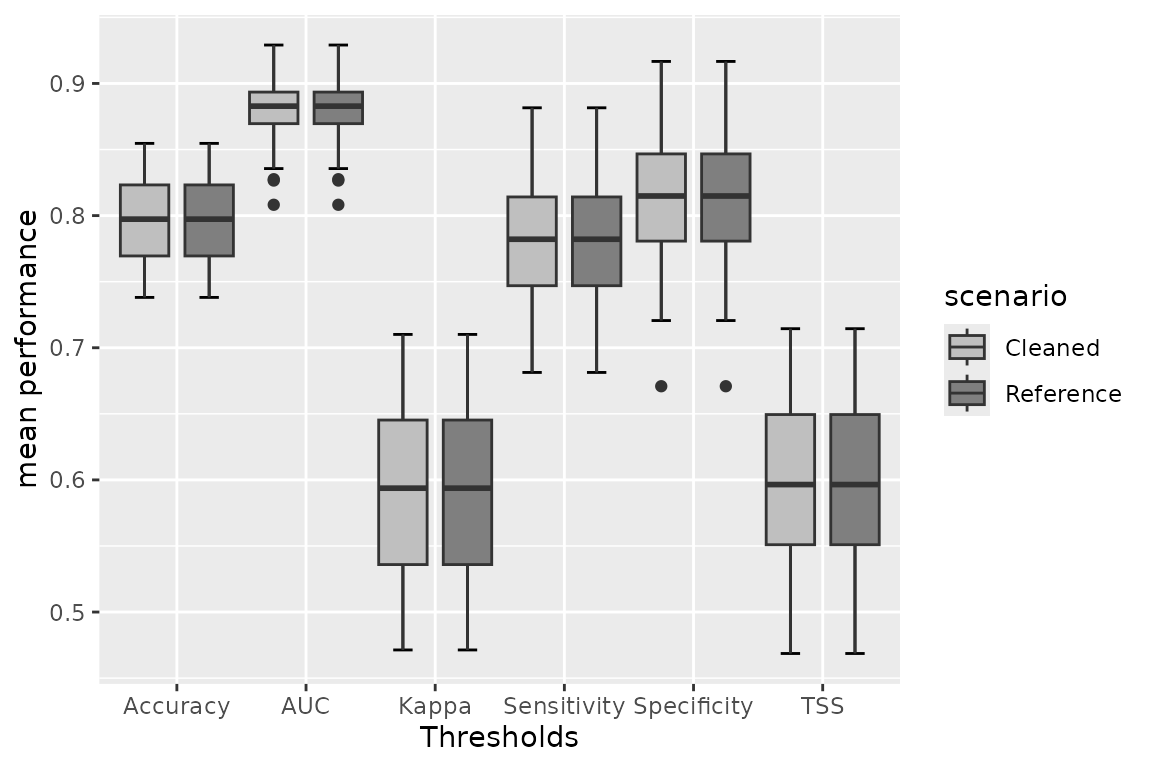
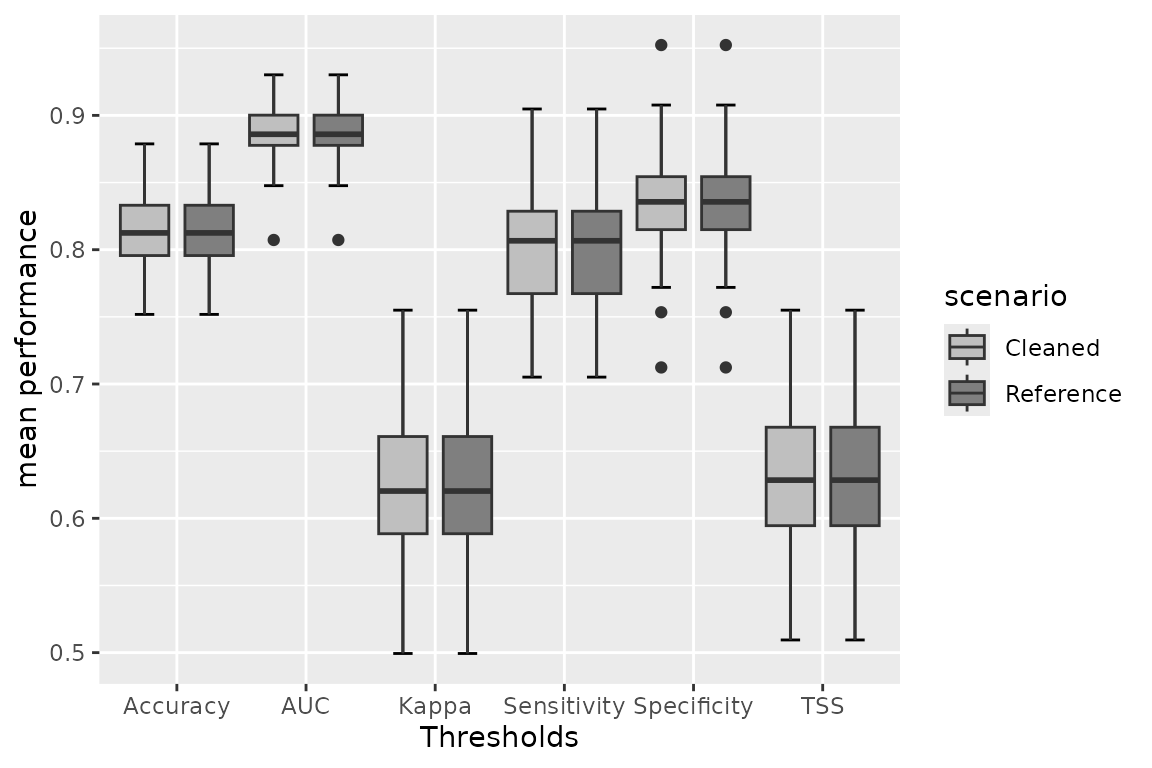
Deploying to gh-pages from @ AnthonyBasooma/specleanr@8b0386eadaf486458f5183ca55744814c9973fbe 🚀

diff --git a/articles/eOutlier.html b/articles/eOutlier.html
@@ -113,12 +113,14 @@ records from each data source to reduce on the execution time.</p>
 <span><span class="va">danube</span> <span class="op">&lt;-</span> <span class="fu">sf</span><span class="fu">::</span><span class="fu"><a href="https://r-spatial.github.io/sf/reference/st_read.html" class="external-link">st_read</a></span><span class="op">(</span><span class="fu"><a href="https://rdrr.io/r/base/system.file.html" class="external-link">system.file</a></span><span class="op">(</span><span class="st">'extdata/danube/basinfinal.shp'</span>, package <span class="op">=</span> <span class="st">'specleanr'</span><span class="op">)</span>, quiet<span class="op">=</span><span class="cn">TRUE</span><span class="op">)</span></span>
 <span></span>
 <span></span>
-<span><span class="va">df_online</span> <span class="op">&lt;-</span> <span class="fu"><a href="../reference/getdata.html">getdata</a></span><span class="op">(</span>data <span class="op">=</span> <span class="fu"><a href="https://rdrr.io/r/base/c.html" class="external-link">c</a></span><span class="op">(</span><span class="st">"Squalius cephalus"</span>, <span class="st">'Salmo trutta'</span>, <span class="st">"Thymallus thymallus"</span>,<span class="st">"Anguilla anguilla"</span><span class="op">)</span>, </span>
+<span><span class="va">df_online</span> <span class="op">&lt;-</span> <span class="fu"><a href="../reference/getdata.html">getdata</a></span><span class="op">(</span>data <span class="op">=</span> <span class="fu"><a href="https://rdrr.io/r/base/c.html" class="external-link">c</a></span><span class="op">(</span><span class="st">"Squalius cephalus"</span>, <span class="st">'Salmo trutta'</span>, </span>
+<span>                              <span class="st">"Thymallus thymallus"</span>,<span class="st">"Anguilla anguilla"</span><span class="op">)</span>, </span>
 <span>                                bbox <span class="op">=</span> <span class="va">danube</span>,</span>
 <span>                                gbiflim <span class="op">=</span> <span class="fl">50</span>, </span>
 <span>                                inatlim <span class="op">=</span> <span class="fl">50</span>, </span>
 <span>                                vertlim <span class="op">=</span> <span class="fl">50</span>, </span>
 <span>                     verbose <span class="op">=</span> <span class="cn">F</span><span class="op">)</span></span>
+<span><span class="co">#&gt; Using libcurl 7.81.0 with OpenSSL/3.0.2</span></span>
 <span></span>
 <span><span class="co">#extract online data from dataonline class</span></span>
 <span></span>
@@ -300,6 +302,10 @@ methods consider the whole dataset.</li>
 <span>                     exclude <span class="op">=</span> <span class="fu"><a href="https://rdrr.io/r/base/c.html" class="external-link">c</a></span><span class="op">(</span><span class="st">'x'</span>,<span class="st">'y'</span><span class="op">)</span>,</span>
 <span>                      methods <span class="op">=</span> <span class="fu"><a href="https://rdrr.io/r/base/c.html" class="external-link">c</a></span><span class="op">(</span><span class="st">'zscore'</span>, <span class="st">'adjbox'</span>,<span class="st">'iqr'</span>, <span class="st">'semiqr'</span>,<span class="st">'hampel'</span>,<span class="st">'kmeans'</span>, <span class="st">'mahal'</span>,</span>
 <span>                                  <span class="st">'logboxplot'</span>,<span class="st">'jknife'</span>,<span class="st">'lof'</span><span class="op">)</span><span class="op">)</span></span>
+<span><span class="co">#&gt; [1] "bio6"</span></span>
+<span><span class="co">#&gt; [1] "bio6"</span></span>
+<span><span class="co">#&gt; [1] "bio6"</span></span>
+<span><span class="co">#&gt; [1] "bio6"</span></span>
 <span><span class="co">#single species</span></span>
 <span><span class="va">ttoutlier</span><span class="op">&lt;-</span> <span class="fu"><a href="../reference/multidetect.html">multidetect</a></span><span class="op">(</span>data <span class="op">=</span> <span class="va">ttrefdata</span>,</span>
 <span>                      multiple <span class="op">=</span> <span class="cn">FALSE</span>,</span>
@@ -361,25 +367,25 @@ identifying the optimal threshold.</p>
 <span><span class="fu"><a href="https://rdrr.io/r/utils/head.html" class="external-link">head</a></span><span class="op">(</span><span class="va">multspecies_clean</span><span class="op">)</span></span>
 <span><span class="co">#&gt;       bio1     bio2     bio3     bio4     bio5     bio6     bio7      bio8</span></span>
 <span><span class="co">#&gt; 1 6.293614 8.755938 31.96181 690.1050 20.90625 -6.48875 27.39500  7.375333</span></span>
-<span><span class="co">#&gt; 2 8.130990 9.155687 33.54192 693.5986 22.50525 -4.79100 27.29625 16.581375</span></span>
-<span><span class="co">#&gt; 3 8.082250 8.630333 32.53905 683.7614 22.23800 -4.28500 26.52300 16.440792</span></span>
-<span><span class="co">#&gt; 4 8.747239 9.561563 33.16130 735.3621 24.23025 -4.60325 28.83350 17.790833</span></span>
-<span><span class="co">#&gt; 5 8.497177 8.913187 33.22129 689.5564 22.77225 -4.05750 26.82975 16.926792</span></span>
-<span><span class="co">#&gt; 6 8.082250 8.630333 32.53905 683.7614 22.23800 -4.28500 26.52300 16.440792</span></span>
-<span><span class="co">#&gt;          bio9    bio10       bio11 bio12 bio13 bio14    bio15 bio16 bio17 bio18</span></span>
-<span><span class="co">#&gt; 1 -1.17562509 14.80313 -2.06429172  2118   241   105 21.73814   663   379   530</span></span>
-<span><span class="co">#&gt; 2  0.93133330 16.58138 -0.41912505  1307   174    69 33.66177   499   233   499</span></span>
-<span><span class="co">#&gt; 3 -0.30200002 16.44079 -0.30200002  1229   163    67 33.78827   468   213   468</span></span>
-<span><span class="co">#&gt; 4 -0.28391668 17.79083 -0.28391668   643    87    28 38.32993   248    96   248</span></span>
-<span><span class="co">#&gt; 5  0.01145836 16.92679  0.01145836  1173   150    64 31.66039   435   206   435</span></span>
-<span><span class="co">#&gt; 6 -0.30200002 16.44079 -0.30200002  1229   163    67 33.78827   468   213   468</span></span>
-<span><span class="co">#&gt;   bio19        x        y      species</span></span>
-<span><span class="co">#&gt; 1   412 13.91667 46.25000 Salmo trutta</span></span>
-<span><span class="co">#&gt; 2   234 13.08333 47.75000 Salmo trutta</span></span>
-<span><span class="co">#&gt; 3   213 12.08333 47.75000 Salmo trutta</span></span>
-<span><span class="co">#&gt; 4    96 15.58333 48.25000 Salmo trutta</span></span>
-<span><span class="co">#&gt; 5   206 11.91667 47.91667 Salmo trutta</span></span>
-<span><span class="co">#&gt; 6   213 12.08333 47.75000 Salmo trutta</span></span>
+<span><span class="co">#&gt; 2 1.382021 6.901417 29.89082 612.7983 13.88175 -9.20700 23.08875  8.924666</span></span>
+<span><span class="co">#&gt; 3 8.747239 9.561563 33.16130 735.3621 24.23025 -4.60325 28.83350 17.790833</span></span>
+<span><span class="co">#&gt; 4 6.505573 8.508604 33.53277 649.9034 19.95200 -5.42200 25.37400 14.466125</span></span>
+<span><span class="co">#&gt; 5 4.682781 8.208604 32.65482 645.1202 17.96525 -7.17225 25.13750 12.606042</span></span>
+<span><span class="co">#&gt; 6 8.497177 8.913187 33.22129 689.5564 22.77225 -4.05750 26.82975 16.926792</span></span>
+<span><span class="co">#&gt;          bio9     bio10       bio11 bio12 bio13 bio14    bio15 bio16 bio17</span></span>
+<span><span class="co">#&gt; 1 -1.17562509 14.803125 -2.06429172  2118   241   105 21.73814   663   379</span></span>
+<span><span class="co">#&gt; 2 -5.74258327  8.924666 -5.74258327  1161   146    59 29.65669   416   193</span></span>
+<span><span class="co">#&gt; 3 -0.28391668 17.790833 -0.28391668   643    87    28 38.32993   248    96</span></span>
+<span><span class="co">#&gt; 4 -0.37845835 14.466125 -1.35133338  1380   188    75 32.60979   522   255</span></span>
+<span><span class="co">#&gt; 5 -2.24883342 12.606042 -3.06862497  1475   195    78 29.53172   535   272</span></span>
+<span><span class="co">#&gt; 6  0.01145836 16.926792  0.01145836  1173   150    64 31.66039   435   206</span></span>
+<span><span class="co">#&gt;   bio18 bio19        x        y      species</span></span>
+<span><span class="co">#&gt; 1   530   412 13.91667 46.25000 Salmo trutta</span></span>
+<span><span class="co">#&gt; 2   416   193 11.58333 47.08333 Salmo trutta</span></span>
+<span><span class="co">#&gt; 3   248    96 15.58333 48.25000 Salmo trutta</span></span>
+<span><span class="co">#&gt; 4   522   261 13.25000 47.75000 Salmo trutta</span></span>
+<span><span class="co">#&gt; 5   535   274 13.75000 47.58333 Salmo trutta</span></span>
+<span><span class="co">#&gt; 6   435   206 11.91667 47.91667 Salmo trutta</span></span>
 <span></span>
 <span><span class="va">ttclean</span><span class="op">&lt;-</span> <span class="fu"><a href="../reference/clean_data_extract.html">clean_data_extract</a></span><span class="op">(</span>refdata <span class="op">=</span> <span class="va">ttrefdata</span>, outliers <span class="op">=</span> <span class="va">ttoutlier</span>, loess <span class="op">=</span> <span class="cn">TRUE</span><span class="op">)</span></span>
 <span><span class="fu"><a href="https://rdrr.io/r/base/dim.html" class="external-link">dim</a></span><span class="op">(</span><span class="va">ttclean</span><span class="op">)</span></span>
@@ -414,12 +420,6 @@ therefore the user do not need to do these steps separately.</p></li>
 <span>                                     raster <span class="op">=</span> <span class="va">worldclim</span>, </span>
 <span>                                     lat <span class="op">=</span> <span class="st">'y'</span>, lon <span class="op">=</span> <span class="st">'x'</span>, full <span class="op">=</span> <span class="cn">FALSE</span>, </span>
 <span>                                     metrics <span class="op">=</span> <span class="st">'all'</span>, minpts <span class="op">=</span> <span class="fl">18</span>,loessthreshold <span class="op">=</span> <span class="cn">TRUE</span><span class="op">)</span></span>
-<span><span class="co">#&gt; Warning in modelcomparison(refdata = multipreclened, outliers = multioutliers,</span></span>
-<span><span class="co">#&gt; : The threshold option of REF didnot run as the 17 records for species Anguilla</span></span>
-<span><span class="co">#&gt; anguilla are too few for a species distribution models.</span></span>
-<span><span class="co">#&gt; Warning in modelcomparison(refdata = multipreclened, outliers = multioutliers,</span></span>
-<span><span class="co">#&gt; : The threshold option of 0.8 didnot run as the 17 records for species Anguilla</span></span>
-<span><span class="co">#&gt; anguilla are too few for a species distribution models.</span></span>
 <span></span>
 <span></span>
 <span><span class="va">multmodelper</span> <span class="op">&lt;-</span> <span class="fu"><a href="../reference/get_performance.html">get_performance</a></span><span class="op">(</span>modelcomp <span class="op">=</span> <span class="va">multcomparion</span><span class="op">)</span></span></code></pre></div>

diff --git a/articles/Plants.html b/articles/Plants.html
@@ -125,6 +125,7 @@ will return errors.</li>
 <span>                     hasCoordinate <span class="op">=</span> <span class="cn">TRUE</span>, </span>
 <span>                   bbox <span class="op">=</span> <span class="fu"><a href="https://rdrr.io/r/base/c.html" class="external-link">c</a></span><span class="op">(</span>xmin <span class="op">=</span> <span class="fl">8.15250</span>, ymin <span class="op">=</span> <span class="fl">42.08333</span>, xmax<span class="op">=</span><span class="fl">29.73583</span>, ymax <span class="op">=</span> <span class="fl">50.24500</span><span class="op">)</span>,</span>
 <span>                   verbose <span class="op">=</span> <span class="cn">FALSE</span>, warn <span class="op">=</span> <span class="cn">FALSE</span><span class="op">)</span></span>
+<span><span class="co">#&gt; Using libcurl 7.81.0 with OpenSSL/3.0.2</span></span>
 <span></span>
 <span></span>
 <span><span class="va">extrdata</span> <span class="op">&lt;-</span> <span class="fu"><a href="../reference/extract_online.html">extract_online</a></span><span class="op">(</span><span class="va">plantdf</span><span class="op">)</span></span></code></pre></div>
@@ -258,6 +259,8 @@ or machine learning models</strong>: local outlier factor:
 <span>                       methods <span class="op">=</span> <span class="fu"><a href="https://rdrr.io/r/base/c.html" class="external-link">c</a></span><span class="op">(</span><span class="st">'adjbox'</span>, <span class="st">"hampel"</span>, <span class="st">'zscore'</span>, </span>
 <span>                                   <span class="st">'lof'</span>, <span class="st">'jknife'</span>, <span class="st">'kmeans'</span>, <span class="st">'mahal'</span><span class="op">)</span>,</span>
 <span>                       showErrors  <span class="op">=</span> <span class="cn">TRUE</span>, warn <span class="op">=</span> <span class="cn">F</span>, verbose <span class="op">=</span> <span class="cn">F</span><span class="op">)</span></span>
+<span><span class="co">#&gt; [1] "bio1"</span></span>
+<span><span class="co">#&gt; [1] "bio1"</span></span>
 <span></span>
 <span><span class="co">#Flag outlier in single species data (multiple = FALSE)</span></span>
 <span></span>
@@ -311,7 +314,7 @@ data. For more information, check (B….2024).</p>
 <code class="sourceCode R"><span></span>
 <span><span class="va">cleandf</span> <span class="op">&lt;-</span> <span class="fu"><a href="../reference/clean_data_extract.html">clean_data_extract</a></span><span class="op">(</span>refdata <span class="op">=</span> <span class="va">plantcleaned</span>, outliers <span class="op">=</span> <span class="va">outliersdata</span>, </span>
 <span>                         mode <span class="op">=</span> <span class="st">"best"</span>, threshold <span class="op">=</span> <span class="fl">0.4</span>, warn <span class="op">=</span> <span class="cn">FALSE</span>, verbose <span class="op">=</span> <span class="cn">TRUE</span>, pabs <span class="op">=</span> <span class="fl">0.1</span><span class="op">)</span></span>
-<span><span class="co">#&gt; Criteria: Best method selected with majority votes of 4.</span></span>
+<span><span class="co">#&gt; Criteria: Best method selected with majority votes of 3.</span></span>
 <span><span class="co">#&gt; Criteria: Best method selected with majority votes of 4.</span></span>
 <span></span>
 <span></span>
